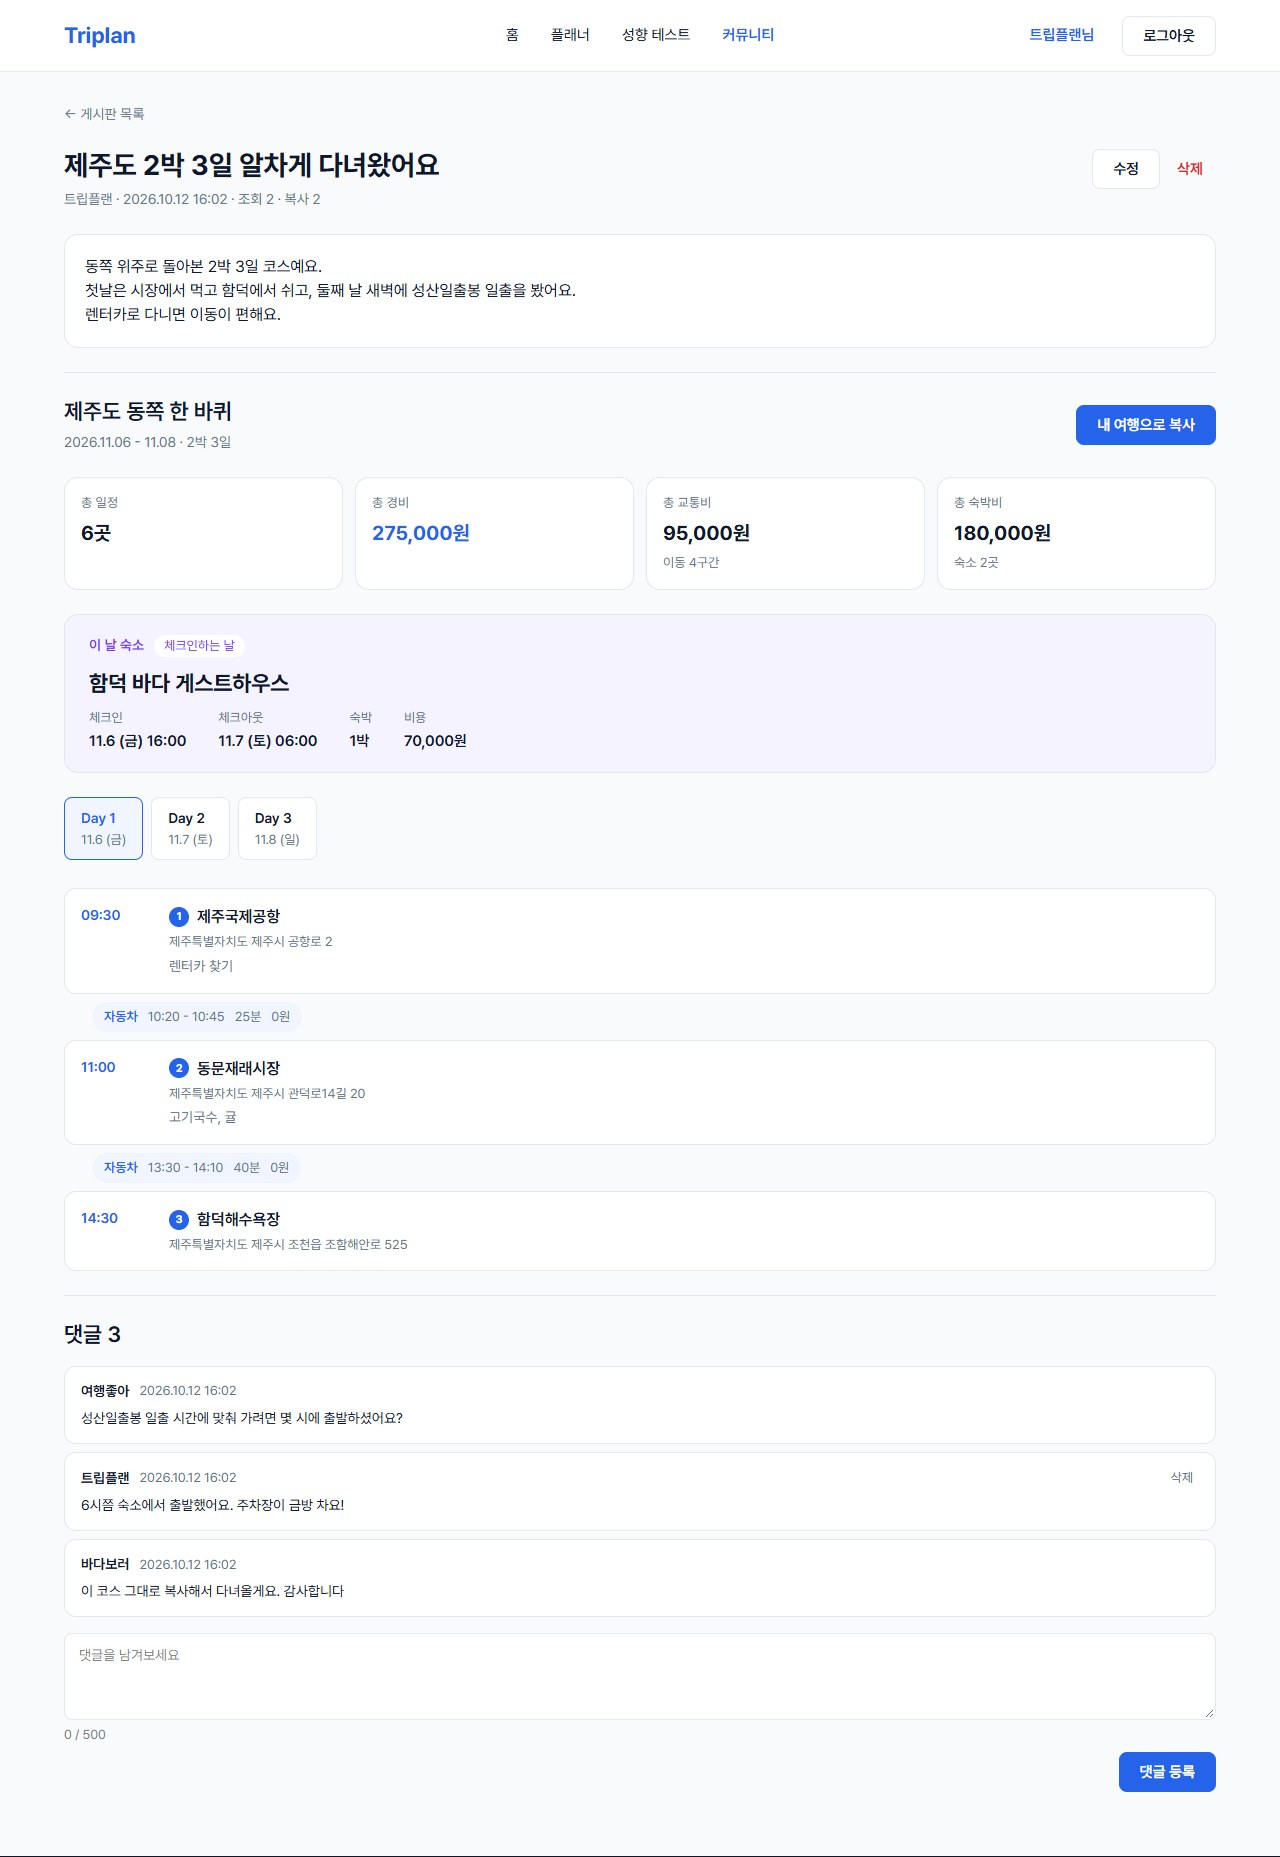
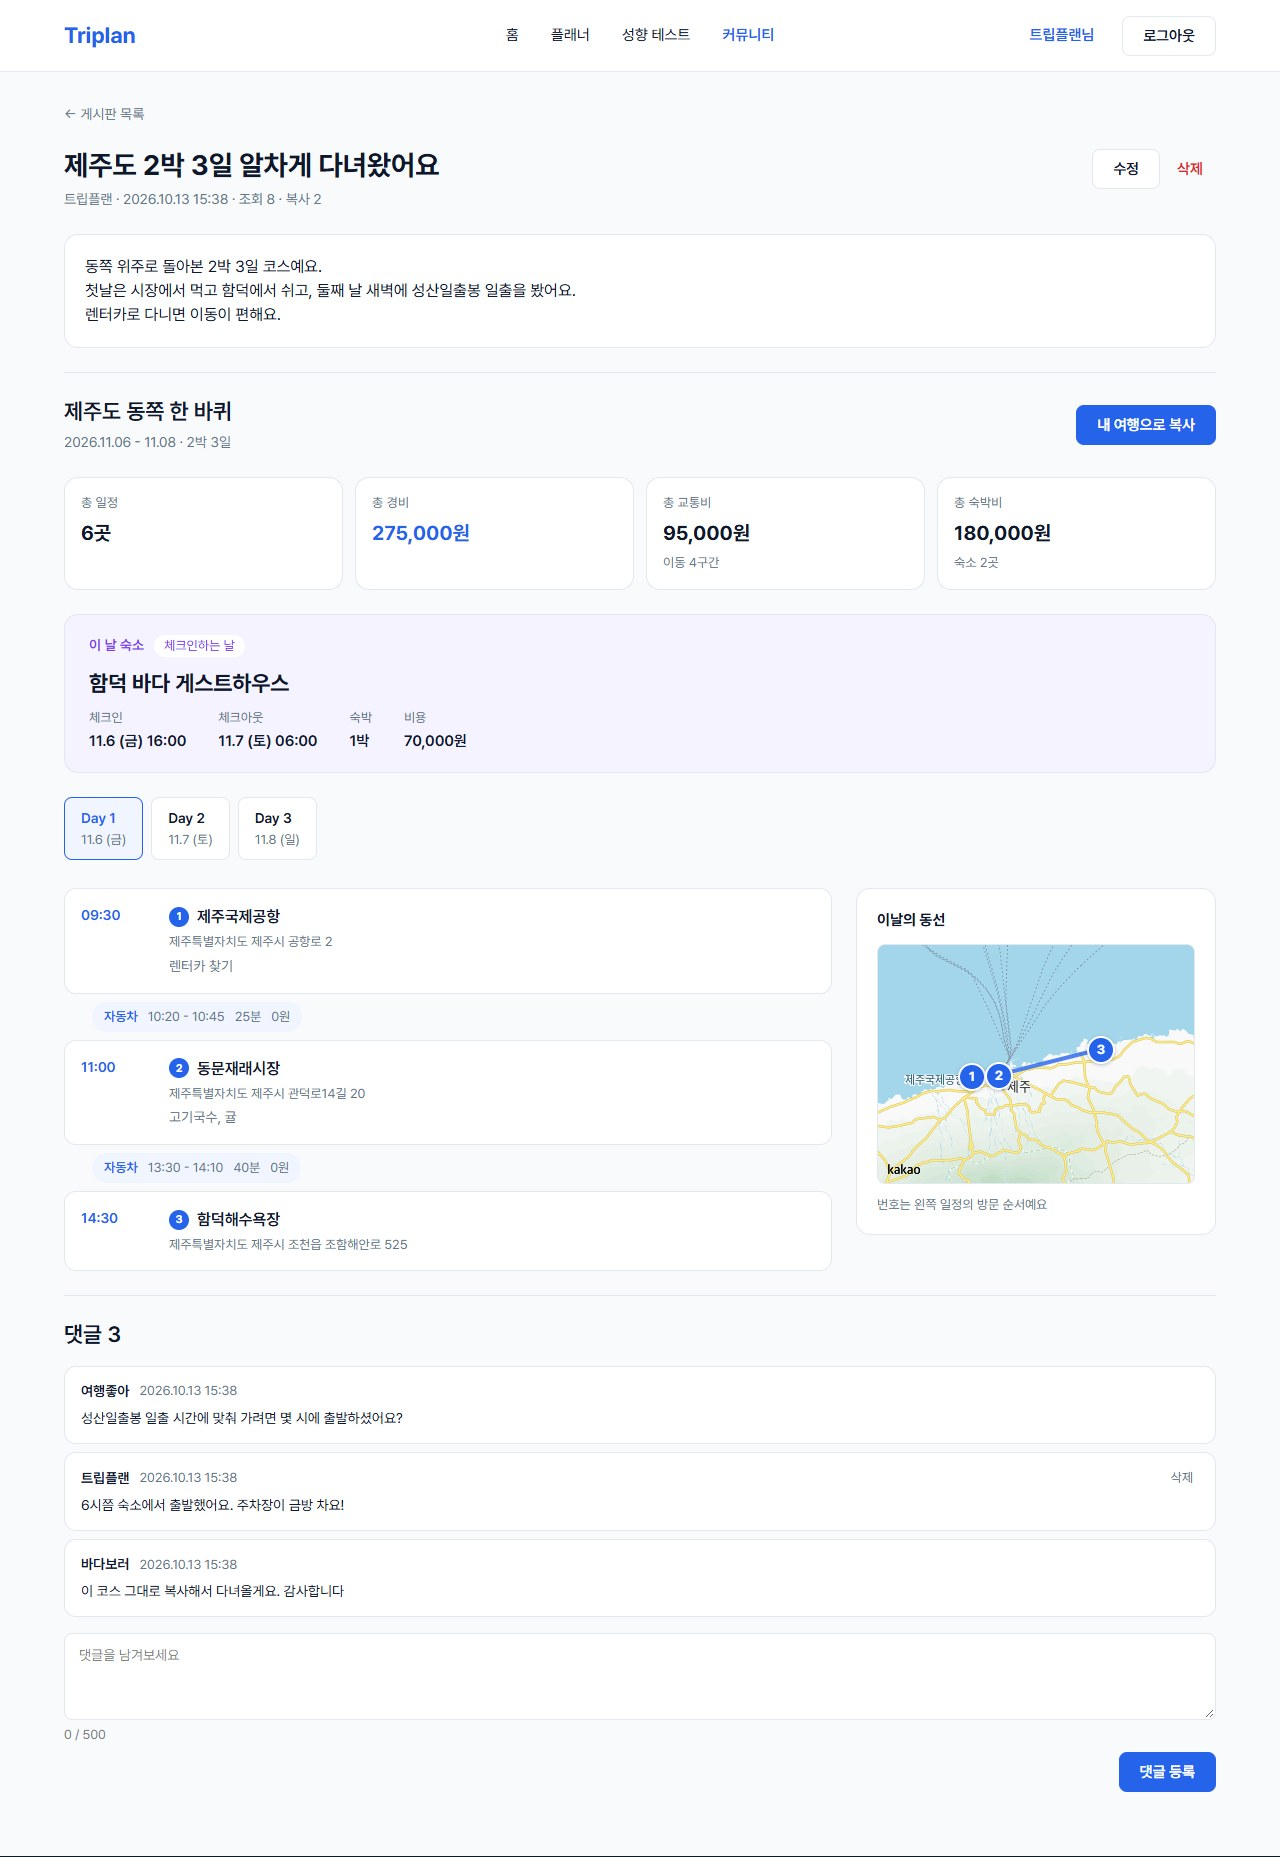
게시글 상세의 공유된 여행에 지도 표시 (SharePageDetailPage, TripMap)
- 일정 오른쪽에 그날 동선 지도 추가 (보기 전용, Day 탭을 바꾸면 지도도 바뀜)
- TripMap의 빈 지도 안내 문구를 화면마다 바꿀 수 있게 함
- 지도에 찍을 방문지를 고르는 코드를 toMapPoints로 옮겨 여행 상세와 같이 씀
- 대중교통 경로는 넣지 않음 (복사해서 내 여행에서 조회)
- requirements.md(T6, S4), portfolio.md, README.md 갱신
- 화면 캡처 다시 찍음 (share-detail, place-search)

Closes #82

Changed region(s): [[0.6875, 0.4685, 0.9375, 0.6559]]

diff --git a/frontend/src/pages/share/SharePageDetailPage.jsx b/frontend/src/pages/share/SharePageDetailPage.jsx
@@ -15,11 +15,12 @@ import EmptyState from "../../components/common/EmptyState";
 import Input from "../../components/common/Input";
 import Modal from "../../components/common/Modal";
 import Textarea from "../../components/common/Textarea";
+import TripMap from "../../components/trip/TripMap";
 import TripSchedule from "../../components/trip/TripSchedule";
 import { useAuth } from "../../context/AuthContext";
 import { useToast } from "../../context/ToastContext";
 import { formatDateTime, formatNights, formatPeriod } from "../../utils/date";
-import { buildSchedule } from "../../utils/schedule";
+import { buildSchedule, toMapPoints } from "../../utils/schedule";
 import styles from "./SharePageDetailPage.module.css";
 
 const COMMENT_MAX_LENGTH = 500; // 서버 검증과 같은 길이
@@ -121,6 +122,7 @@ export default function SharePageDetailPage() {
 	// 복사를 막아 둔 글은 작성자 본인만 복사할 수 있다 (B11)
 	const canCopy = post.allowCopy || isMine(post.writerId);
 	const schedule = buildSchedule({ trip, stops: trip.stops, lodgings: trip.lodgings, selectedDay });
+	const mapPoints = toMapPoints(schedule.dayStops); // 지도에는 보고 있는 날의 방문지만 찍는다
 
 	// 로그인 화면으로 보낸다. 로그인하면 이 글로 돌아온다
 	const goToLogin = () => navigate("/login", { state: { from: location } });
@@ -291,6 +293,18 @@ export default function SharePageDetailPage() {
 				costs={trip}
 				onSelectDay={setSelectedDay}
 				emptyDescription="아직 방문지를 넣지 않은 여행이에요"
+				side={
+					// 보기 전용 지도. 대중교통 경로는 여기서 보여주지 않는다 (내 여행으로 복사하면 조회할 수 있다)
+					<aside className={styles.side}>
+						<h4 className={styles.sideTitle}>이날의 동선</h4>
+						<TripMap
+							points={mapPoints}
+							emptyTitle="지도에 표시할 위치가 없어요"
+							emptyHelp="이날은 위치가 들어 있는 방문지가 없어요"
+						/>
+						{mapPoints.length > 0 && <p className={styles.sideHint}>번호는 왼쪽 일정의 방문 순서예요</p>}
+					</aside>
+				}
 			/>
 
 			<section className={styles.comments}>

diff --git a/frontend/src/pages/trip/TripDetailPage.jsx b/frontend/src/pages/trip/TripDetailPage.jsx
@@ -19,7 +19,7 @@ import TripMap from "../../components/trip/TripMap";
 import TripSchedule from "../../components/trip/TripSchedule";
 import { useToast } from "../../context/ToastContext";
 import { addDays, dateOf, formatNights, formatPeriod, formatTime, timeOf } from "../../utils/date";
-import { OUTSIDE, buildSchedule } from "../../utils/schedule";
+import { OUTSIDE, buildSchedule, toMapPoints } from "../../utils/schedule";
 import LodgingForm from "./LodgingForm";
 import SegmentForm from "./SegmentForm";
 import StopForm from "./StopForm";
@@ -158,10 +158,7 @@ export default function TripDetailPage() {
 	const { trip, segments, lodgings, estimate } = result;
 	const schedule = buildSchedule({ trip, stops: result.stops, lodgings, selectedDay });
 	const { stops, activeDay, dayStops, dayOf, lodgingDay } = schedule;
-	// 지도에 찍을 곳: 보고 있는 날의 방문지 중 위치가 있는 것. 번호는 그날의 방문 순서(일정에 보이는 번호와 같다)
-	const mapPoints = dayStops
-		.map((stop, index) => ({ label: String(index + 1), name: stop.name, latitude: stop.latitude, longitude: stop.longitude }))
-		.filter((point) => point.latitude != null && point.longitude != null);
+	const mapPoints = toMapPoints(dayStops); // 지도에는 보고 있는 날의 방문지만 찍는다
 	const stopNames = new Map(stops.map((stop) => [stop.id, stop.name]));
 	const segmentLabel = (segment) => `${stopNames.get(segment.fromStopId)} → ${stopNames.get(segment.toStopId)}`;
 

diff --git a/frontend/src/components/trip/TripMap.jsx b/frontend/src/components/trip/TripMap.jsx
@@ -5,7 +5,12 @@ import styles from "./TripMap.module.css";
 // 방문지를 번호 마커와 선으로 보여주는 지도 (카카오맵, T6)
 // points: 지도에 찍을 곳을 방문 순서대로 [{ label, name, latitude, longitude }]. label은 마커에 적을 번호
 // 찍을 곳이 없으면 지도 대신 안내 문구를 보여준다
-export default function TripMap({ points }) {
+// emptyTitle · emptyHelp: 그 안내 문구. 보는 사람에 따라 바꿀 수 있다 (기본은 여행을 고치는 사람에게 하는 말)
+export default function TripMap({
+	points,
+	emptyTitle = "방문지 위치를 넣으면 지도에 표시돼요",
+	emptyHelp = '방문지를 추가하거나 수정할 때 "장소 검색"으로 고르면 위치가 들어가요',
+}) {
 	const containerRef = useRef(null);
 	const mapRef = useRef(null); // 만들어 둔 지도 (탭을 바꿔도 다시 만들지 않는다)
 	const drawnRef = useRef([]); // 지도에 올려 둔 마커 · 선 (다시 그릴 때 지운다)
@@ -84,8 +89,8 @@ export default function TripMap({ points }) {
 	if (points.length === 0) {
 		return (
 			<div className={`${styles.map} ${styles.placeholder}`}>
-				<p>방문지 위치를 넣으면 지도에 표시돼요</p>
-				<p className={styles.placeholderHelp}>방문지를 추가하거나 수정할 때 "장소 검색"으로 고르면 위치가 들어가요</p>
+				<p>{emptyTitle}</p>
+				{emptyHelp && <p className={styles.placeholderHelp}>{emptyHelp}</p>}
 			</div>
 		);
 	}

diff --git a/frontend/src/pages/share/SharePageDetailPage.module.css b/frontend/src/pages/share/SharePageDetailPage.module.css
@@ -183,3 +183,28 @@
 	font: var(--font-caption);
 	color: var(--color-error);
 }
+
+/* 일정 오른쪽의 지도 칸 (여행 상세의 오른쪽 패널과 같은 모양) */
+.side {
+	position: sticky;
+	top: calc(var(--header-height) + 16px); /* 위에 붙어 있는 헤더에 가리지 않게 */
+	display: flex;
+	flex-direction: column;
+	gap: 12px;
+	padding: 20px;
+	border: 1px solid var(--color-border);
+	border-radius: var(--radius-card);
+	background: var(--color-bg);
+}
+
+.sideTitle {
+	margin: 0;
+	font-size: 15px;
+	font-weight: 700;
+	color: var(--color-text);
+}
+
+.sideHint {
+	font: var(--font-caption);
+	color: var(--color-text-secondary);
+}

diff --git a/frontend/src/utils/schedule.js b/frontend/src/utils/schedule.js
@@ -54,3 +54,11 @@ export function buildSchedule({ trip, stops, lodgings, selectedDay }) {
 		),
 	};
 }
+
+// 지도에 찍을 곳: 그날의 방문지 중 위치가 있는 것
+// 번호(label)는 그날의 방문 순서라서 일정에 보이는 번호와 같다. 위치가 없는 방문지는 빠지고 번호는 건너뛴다
+export function toMapPoints(dayStops) {
+	return dayStops
+		.map((stop, index) => ({ label: String(index + 1), name: stop.name, latitude: stop.latitude, longitude: stop.longitude }))
+		.filter((point) => point.latitude != null && point.longitude != null);
+}

diff --git a/docs/requirements.md b/docs/requirements.md
@@ -120,11 +120,11 @@
 
 ### T6 지도 시각화 · 장소 검색
 - **쓰는 것**: 카카오맵 JavaScript SDK. 서버를 거치지 않고 화면(브라우저)이 직접 부른다 (키는 `frontend/.env`의 `VITE_KAKAO_MAP_KEY`)
-- **화면**: 여행 상세 오른쪽 패널 맨 위의 지도
+- **화면**: 여행 상세 오른쪽 패널 맨 위의 지도, 게시글 상세의 공유된 여행 오른쪽 지도(보기 전용, S4). 둘이 같은 부품(`TripMap`)을 쓴다
   - 보고 있는 날(Day 탭)의 방문지 중 위치(위도 · 경도)가 있는 것을 번호 마커로 찍고, 방문 순서대로 선으로 잇는다
   - 마커의 번호는 그날의 방문 순서이고, 일정의 방문지 이름 앞에도 같은 번호가 보인다
   - 모든 마커가 보이도록 지도 범위를 자동으로 맞춘다. 한 곳뿐이면 그곳을 가운데에 둔다
-  - 위치가 있는 방문지가 없으면 지도 대신 "방문지 위치를 넣으면 지도에 표시돼요"를 보여준다
+  - 위치가 있는 방문지가 없으면 지도 대신 "방문지 위치를 넣으면 지도에 표시돼요"를 보여준다 (게시글 상세에서는 보는 사람에게 맞게 "지도에 표시할 위치가 없어요")
 - **장소 검색**: 방문지 폼에서 검색해 고르면 위치가 들어간다 (T2 화면 참고)
 - **인수 기준**
   - 장소 검색으로 방문지를 추가하면 그날 지도에 마커가 나타난다.
@@ -191,10 +191,13 @@
 ### S4 공유된 여행 상세 보기
 - **처리**: 게시글에 연결된 여행의 방문지(방문 순서대로) · 이동 구간 · 숙소 · 경비 합계를 반환. 조회수는 오르지 않음
 - **화면**: 게시글 상세 가운데. 여행 상세와 같은 모양(요약 카드 · 그날 숙소 · Day 탭 · 날짜별 일정)을 보기 전용으로 보여준다. 수정 · 삭제 버튼과 예약번호는 없다
+  - 일정 오른쪽에 지도가 있다. 보고 있는 날의 방문지를 번호 마커와 선으로 보여주고, Day 탭을 바꾸면 지도도 바뀐다 (T6과 같은 지도, 서버 응답에 이미 있는 좌표를 쓴다)
+  - 대중교통 경로(T7)는 여기서 보여주지 않는다. 조회 API가 자기 여행에만 쓸 수 있고(B2), 오디세이 무료 호출이 하루에 정해져 있어서 누구나 보는 게시판에서 열면 금방 바닥난다. 경로가 궁금하면 "내 여행으로 복사"로 가져가서 조회한다
 - **관련 규칙**: B1, B12
 - **인수 기준**
   - 로그인하지 않아도 볼 수 있다.
   - 응답에 예약번호가 없다.
+  - 로그인하지 않아도 지도가 보이고, Day 탭을 바꾸면 그날 방문지로 바뀐다.
   - 없는 게시글이면 404.
 
 ### S5 공유된 여행을 내 여행으로 복사

diff --git a/docs/portfolio.md b/docs/portfolio.md
@@ -140,6 +140,7 @@ kr.ync.triplan
 공유 게시글에 연결된 여행의 방문지(순서대로) · 이동 · 숙소 · 경비 합계를 보여줍니다.
 - 로그인 없이 볼 수 있습니다. 조회수는 오르지 않습니다.
 - 전용 응답(`SharedTripResponse`)으로 **예약번호를 제외**합니다 (규칙 B12).
+- 여행 상세와 **같은 화면 부품**(일정 · 지도)을 보기 전용으로 다시 씁니다. 지도는 응답에 이미 있는 좌표로 그려서 서버를 고치지 않았습니다.
 
 ### 5.3 공유된 여행 복사 (S5)
 마음에 드는 공유 여행을 내 여행으로 가져와 수정해 쓸 수 있습니다.
@@ -194,7 +195,7 @@ kr.ync.triplan
 
 ![게시판 목록](images/portfolio/share-list.jpg)
 
-**게시글 상세**: 글, 공유된 여행(보기 전용, 예약번호 제외), "내 여행으로 복사", 댓글.
+**게시글 상세**: 글, 공유된 여행(보기 전용, 예약번호 제외)과 그날 동선 지도, "내 여행으로 복사", 댓글.
 
 ![게시글 상세](images/portfolio/share-detail.jpg)
 
